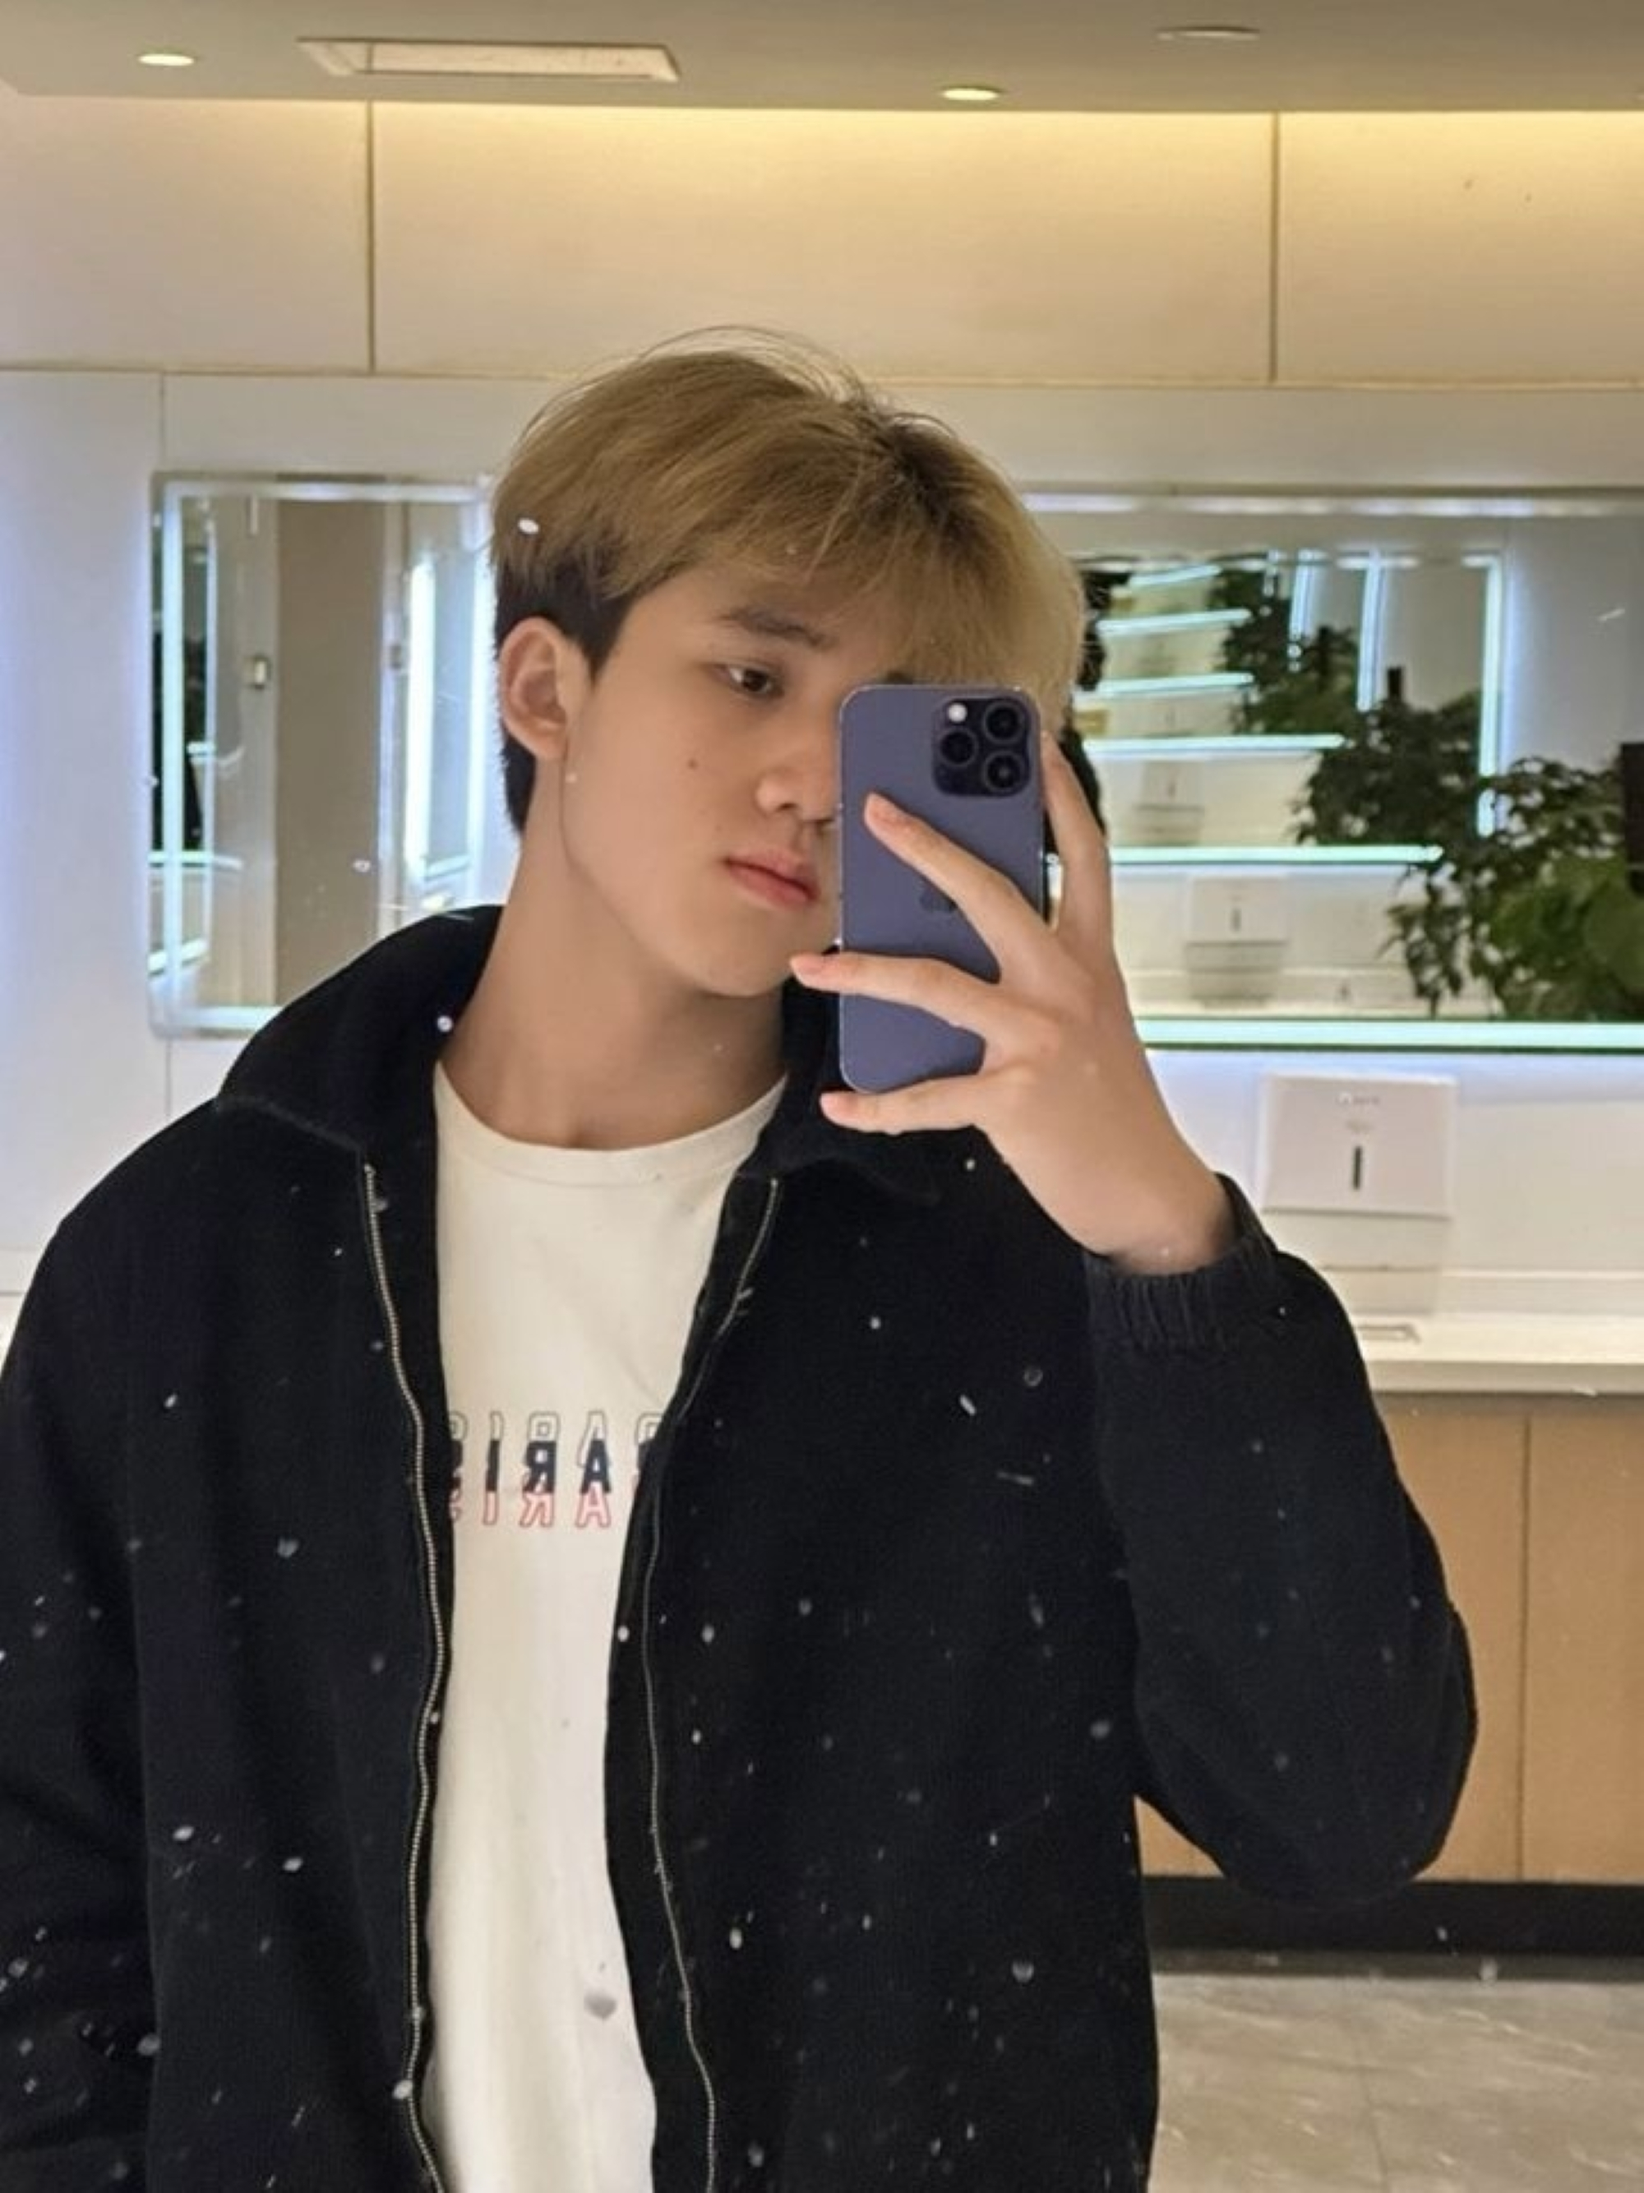
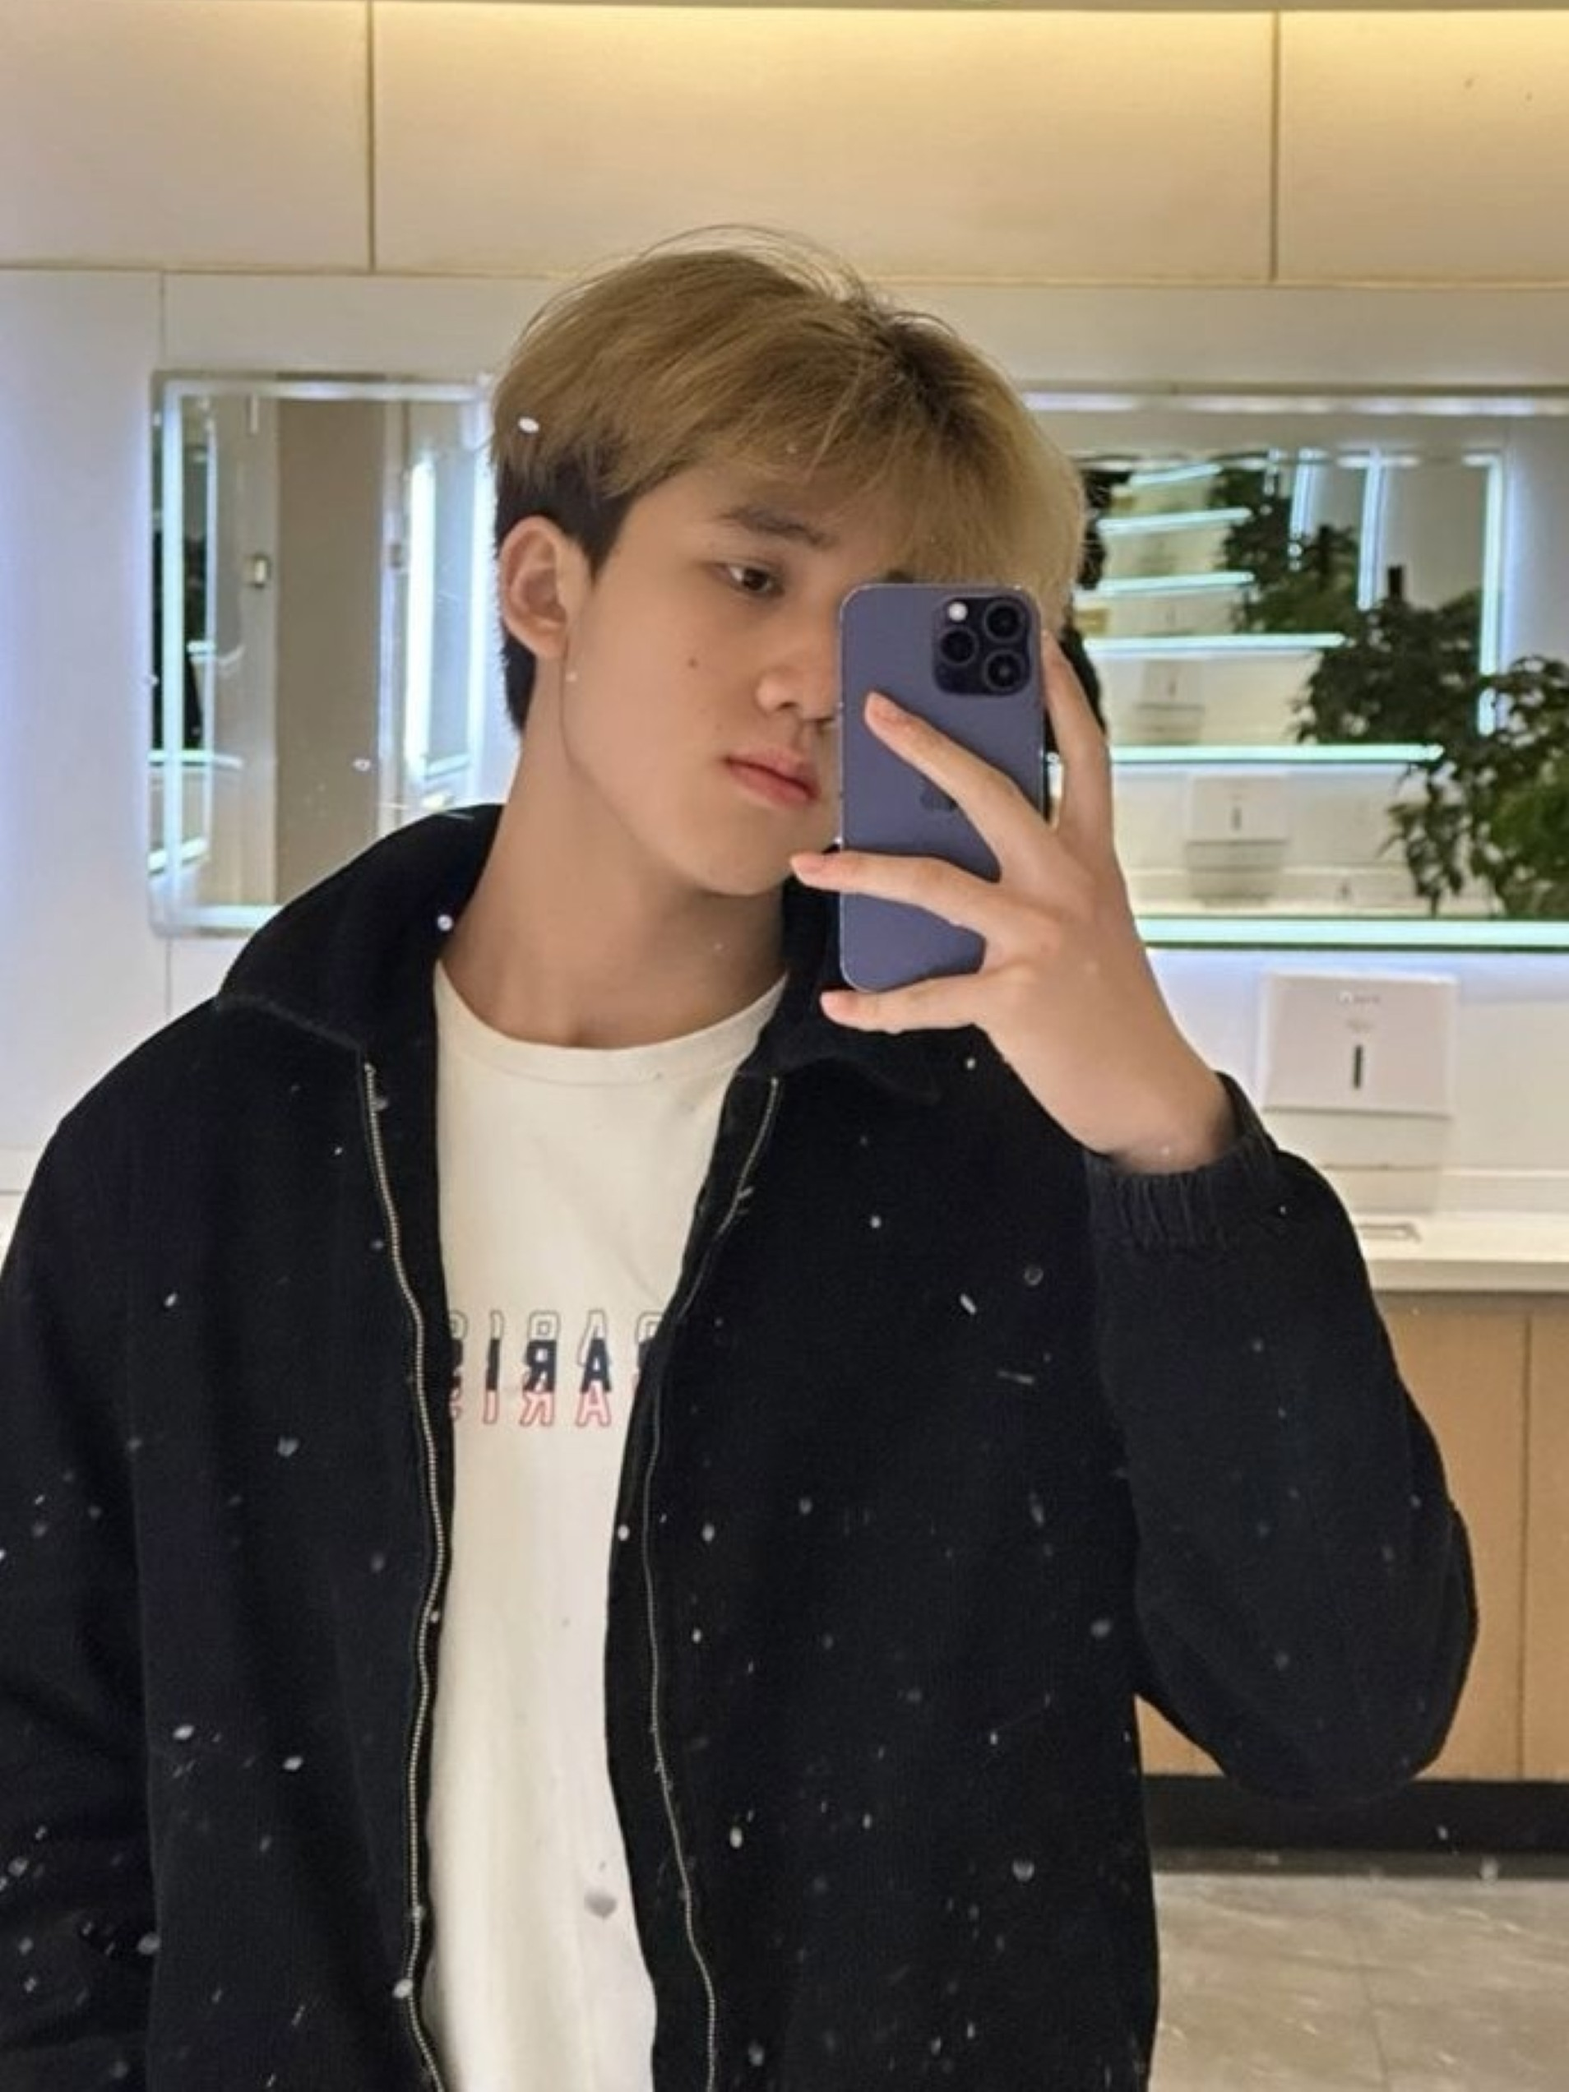
added img

diff --git a/about.php b/about.php
@@ -42,7 +42,7 @@
     <div class="member">
         <div class="member-box">
             <div class="member-img">
-                <img src="" alt="member1">
+                <img src="jayden.jpg" alt="member1">
             </div>
 
             <div class="member-text">
